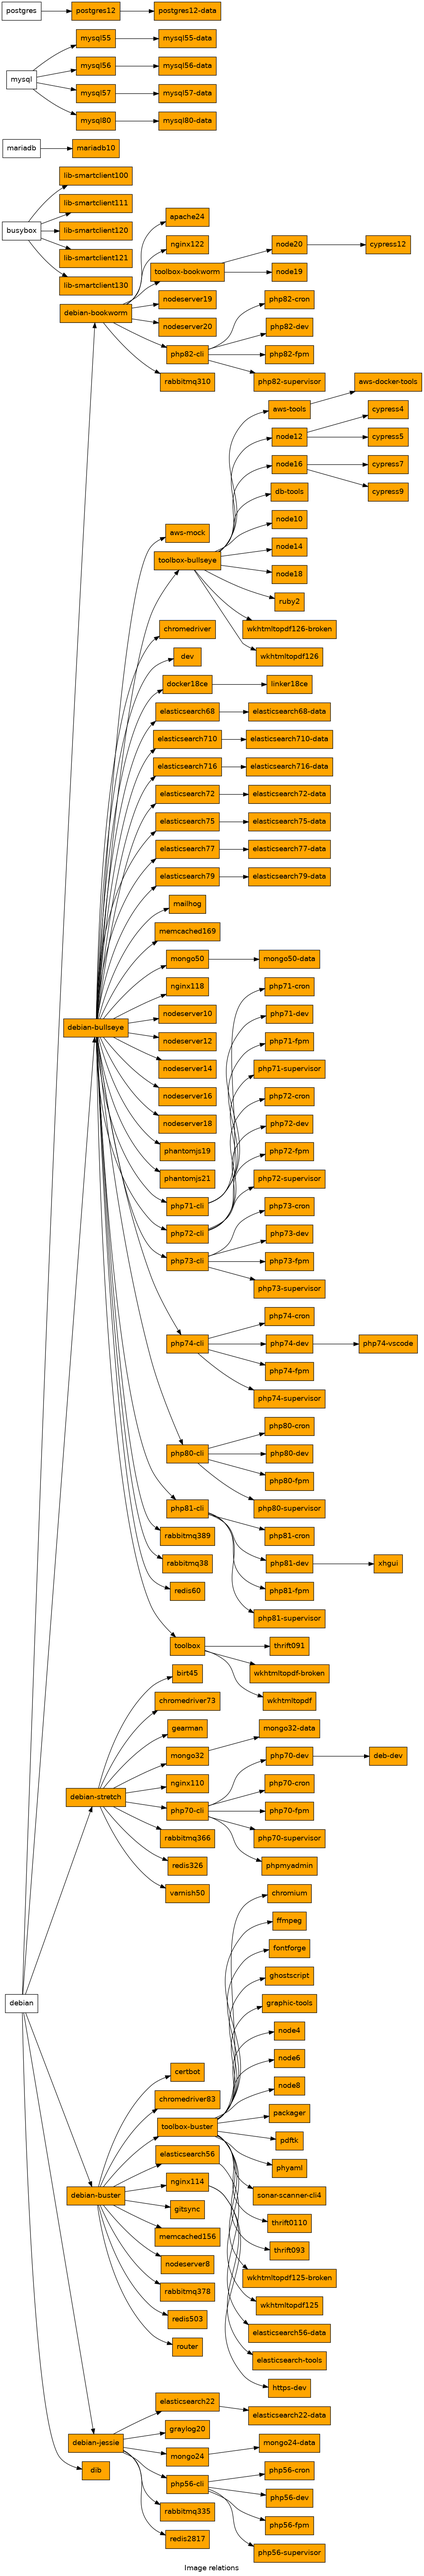
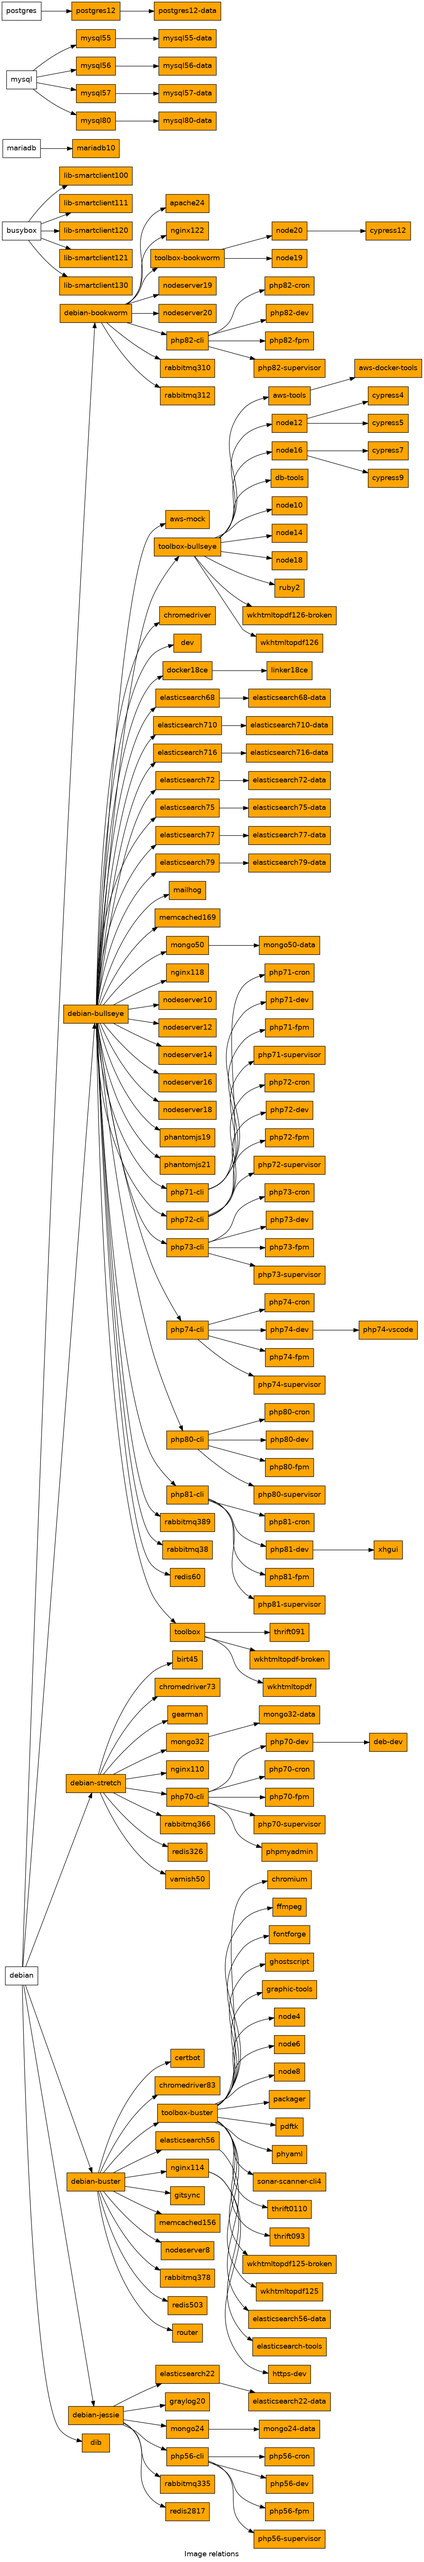
Added rabbitmq312 image

diff --git a/rabbitmq312/README.md b/rabbitmq312/README.md
@@ -1,0 +1,49 @@
+
+
+## supported env vars
+
+
+### NFQ_ENABLE_RABBITMQ_MODULES (optional)
+
+Provide space separated lists of modules in a single quoted string
+
+example:
+    docker run -it -e NFQ_ENABLE_RABBITMQ_MODULES='rabbitmq_management rabbitmq_top' <this_image>
+
+#### list of available modules
+
+* rabbitmq_amqp1_0
+* rabbitmq_auth_backend_cache
+* rabbitmq_auth_backend_http
+* rabbitmq_auth_backend_ldap
+* rabbitmq_auth_mechanism_ssl
+* rabbitmq_consistent_hash_exchange
+* rabbitmq_event_exchange
+* rabbitmq_federation
+* rabbitmq_federation_management
+* rabbitmq_jms_topic_exchange
+* rabbitmq_management
+* rabbitmq_management_agent
+* rabbitmq_mqtt
+* rabbitmq_peer_discovery_aws
+* rabbitmq_peer_discovery_common
+* rabbitmq_peer_discovery_consul
+* rabbitmq_peer_discovery_etcd
+* rabbitmq_peer_discovery_k8s
+* rabbitmq_random_exchange
+* rabbitmq_recent_history_exchange
+* rabbitmq_sharding
+* rabbitmq_shovel
+* rabbitmq_shovel_management
+* rabbitmq_stomp
+* rabbitmq_top
+* rabbitmq_tracing
+* rabbitmq_trust_store
+* rabbitmq_web_dispatch
+* rabbitmq_web_mqtt
+* rabbitmq_web_mqtt_examples
+* rabbitmq_web_stomp
+* rabbitmq_web_stomp_examples
+* rabbitmq_delayed_message_exchange
+
+
